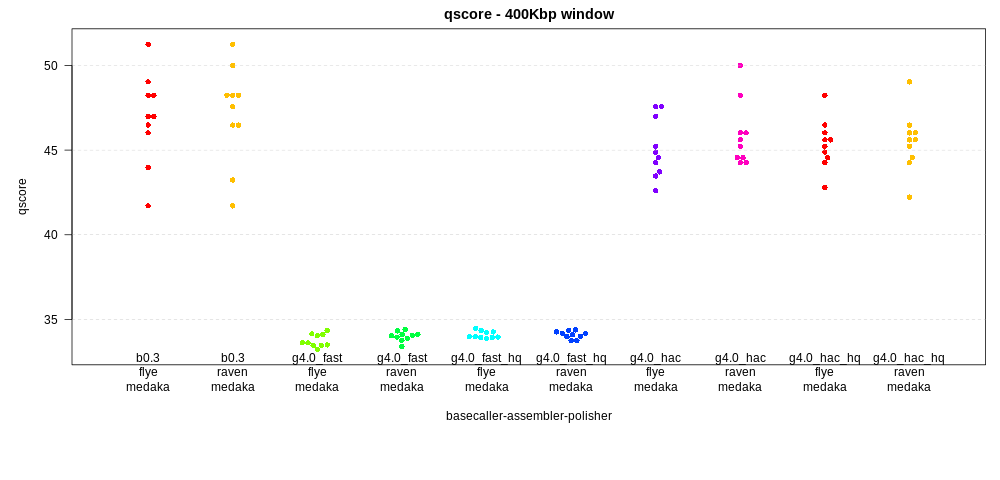
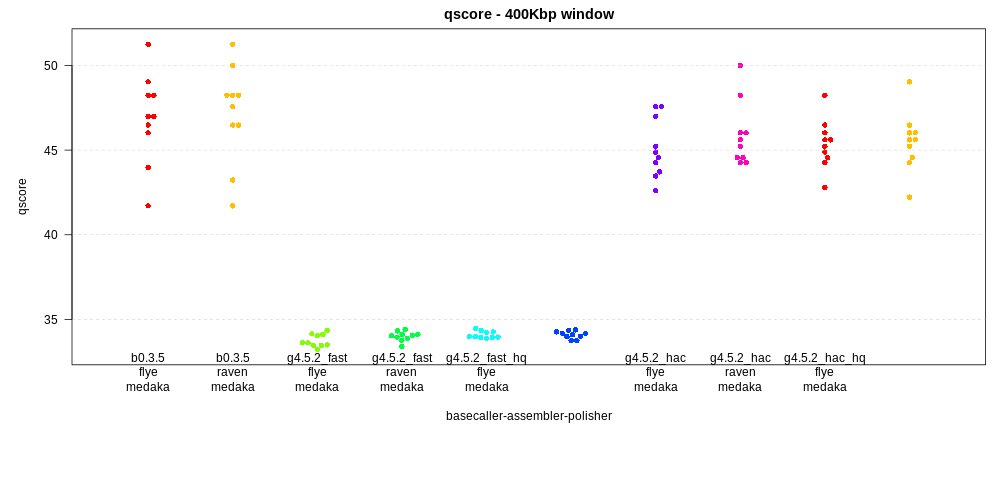
fixed guppy and bonito naming

diff --git a/README.md b/README.md
@@ -20,7 +20,7 @@ This is plotted as a phred-based q-score
 ### No polishing
 First, the results with no polishing at all ("none"). Each point in the plot 
 below indicates the quality score within a 250 Kbp window. `bonito 0.3.5` is 
-indicated as *b0.3*; `guppy 4.5.2` is indicated as *g4.0*. There are two 
+indicated as *b0.3.5*; `guppy 4.5.2` is indicated as *g4.5.2*. There are two 
 models for guppy, *fast* (fast) amd *high accuracy* (hac). In addition, for 
 each set of `guppy` basecalls with `.fastq` scores, there is a matching dataset
 that has been filtered for high quality (hq) reads using `filtlong` as indicated above.
